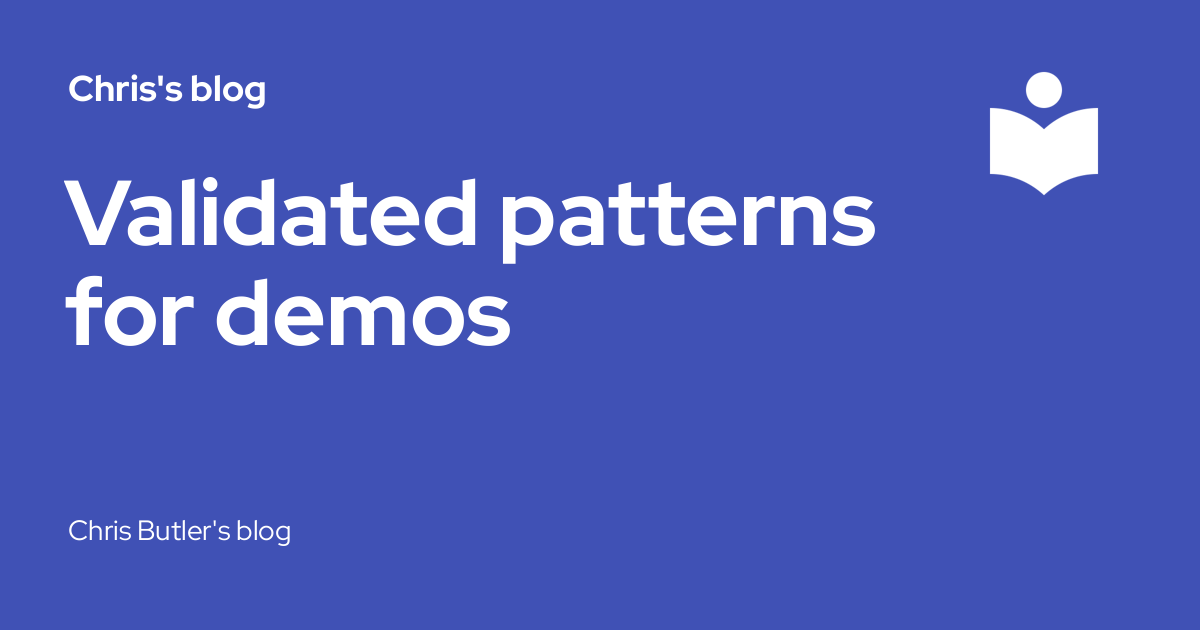
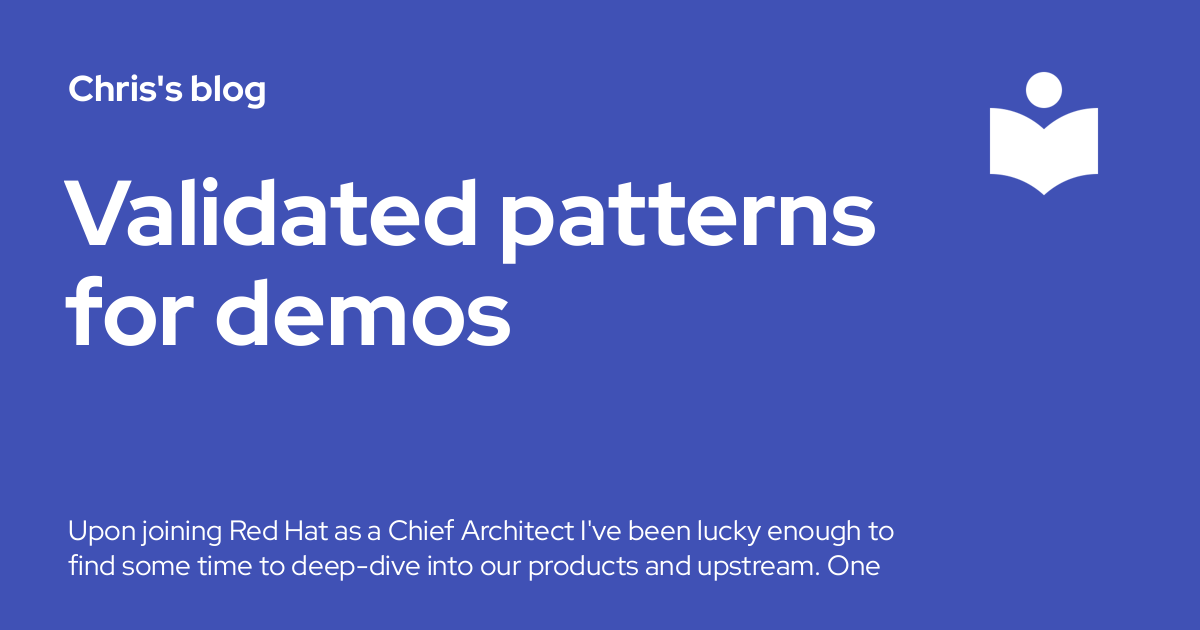
Deployed 8152a1e with MkDocs version: 1.5.3

Changed region(s): [[0.0617, 0.8143, 0.74, 0.9349]]

diff --git a/blog/2023/10/30/validated-patterns-for-demos/index.html b/blog/2023/10/30/validated-patterns-for-demos/index.html
@@ -6,8 +6,11 @@
       <meta charset="utf-8">
       <meta name="viewport" content="width=device-width,initial-scale=1">
       
-        <meta name="description" content="Chris Butler's blog">
+        <meta name="description" content="Upon joining Red Hat as a Chief Architect I've been lucky enough to find some time to deep-dive into our products and upstream. One of the fun challenges that I faced straight away is our demo OpenShift environments, for many reasons, are emphemeral. 
+ In ephemeral environments GitOps is essential to quickly get to a consistent environment. Enter validated patterns.">
       
+      
+        <meta name="author" content="Chris Butler">
       
       
         <link rel="canonical" href="https://chris.thebutlers.me/blog/2023/10/30/validated-patterns-for-demos/">
@@ -59,7 +62,8 @@
       
         <meta  property="og:title"  content="Validated patterns for demos - Chris's blog" >
       
-        <meta  property="og:description"  content="Chris Butler's blog" >
+        <meta  property="og:description"  content="Upon joining Red Hat as a Chief Architect I've been lucky enough to find some time to deep-dive into our products and upstream. One of the fun challenges that I faced straight away is our demo OpenShift environments, for many reasons, are emphemeral. 
+ In ephemeral environments GitOps is essential to quickly get to a consistent environment. Enter validated patterns." >
       
         <meta  property="og:image"  content="https://chris.thebutlers.me/assets/images/social/blog/posts/validated-demos.png" >
       
@@ -75,7 +79,8 @@
       
         <meta  name="twitter:title"  content="Validated patterns for demos - Chris's blog" >
       
-        <meta  name="twitter:description"  content="Chris Butler's blog" >
+        <meta  name="twitter:description"  content="Upon joining Red Hat as a Chief Architect I've been lucky enough to find some time to deep-dive into our products and upstream. One of the fun challenges that I faced straight away is our demo OpenShift environments, for many reasons, are emphemeral. 
+ In ephemeral environments GitOps is essential to quickly get to a consistent environment. Enter validated patterns." >
       
         <meta  name="twitter:image"  content="https://chris.thebutlers.me/assets/images/social/blog/posts/validated-demos.png" >
       
